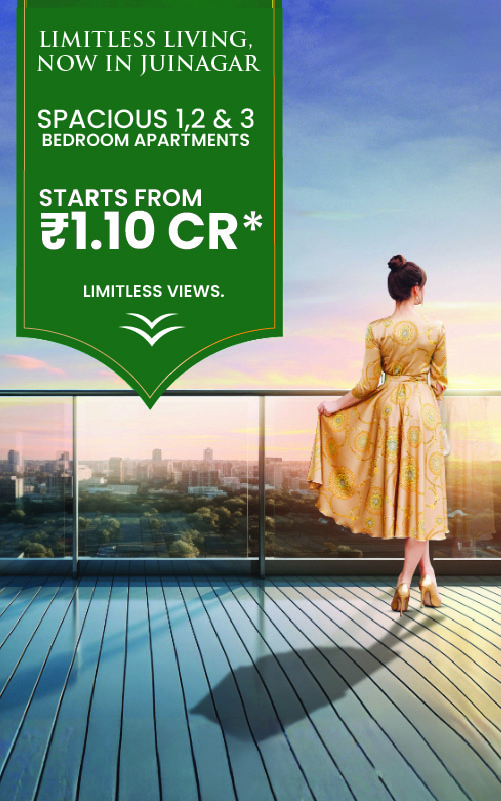
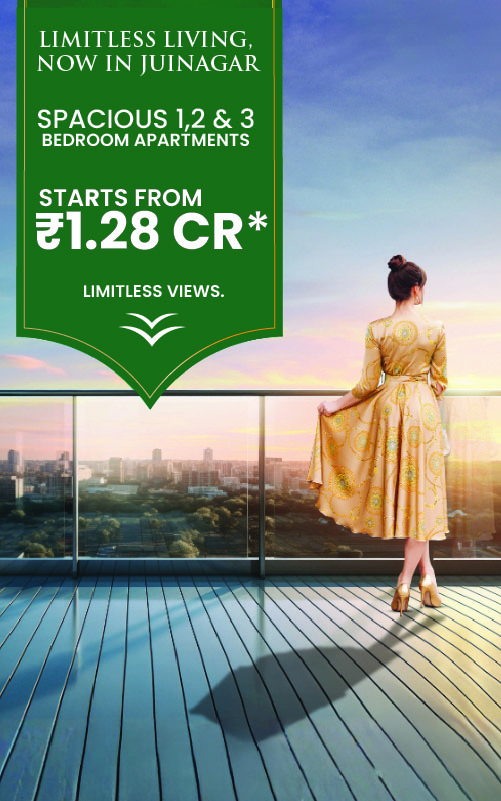
Price Changed

Changed region(s): [[0.0599, 0.2497, 0.5389, 0.3121]]

diff --git a/index.html b/index.html
@@ -246,7 +246,7 @@
             <strong> 1, 2 & 3 BHK Homes </strong><br /><br />
             Starts From
           </span>
-          <span class="info-price pb-3">₹ 1.10 Cr* Onwards </span>
+          <span class="info-price pb-3">₹ 1.28 Cr* Onwards </span>
 
           <button
             class="pro-button effectMoveGradient"
@@ -442,8 +442,8 @@
                   <tbody>
                     <tr>
                       <td>1 BHK with Balcony</td>
-                      <td>500 Sq.ft</td>
-                      <td>₹ 1.10 Cr*</td>
+                      <td>490 Sq.ft</td>
+                      <td>₹ 1.28 Cr*</td>
                       <td>
                         <a
                           href="#"
@@ -514,8 +514,8 @@
               <div class="d-md-none">
                 <div class="price-card p-3 mb-3 text-center">
                   <h5>1 BHK with Balcony</h5>
-                  <p class="mb-1">500 Sq.ft</p>
-                  <h4>₹ 1.10 Cr*</h4>
+                  <p class="mb-1">490 Sq.ft</p>
+                  <h4>₹ 1.28 Cr*</h4>
                   <a
                     class="btn btn-primary btn-sm mt-2"
                     data-bs-toggle="modal"
